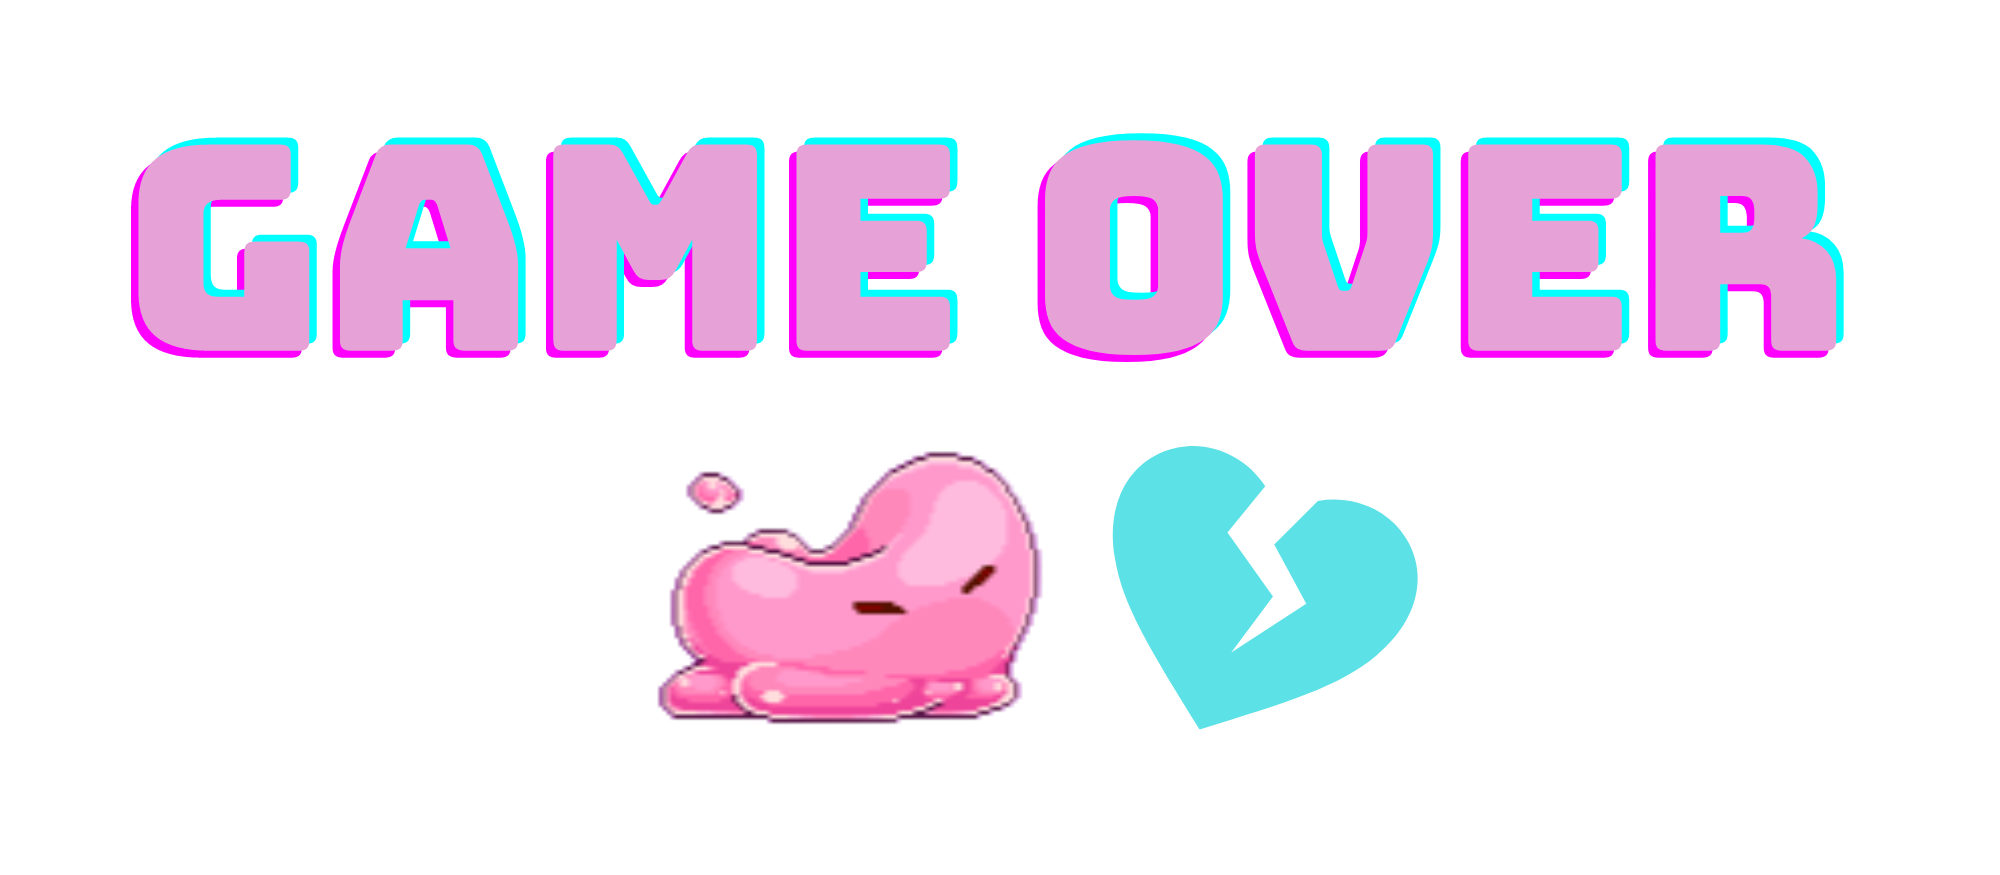
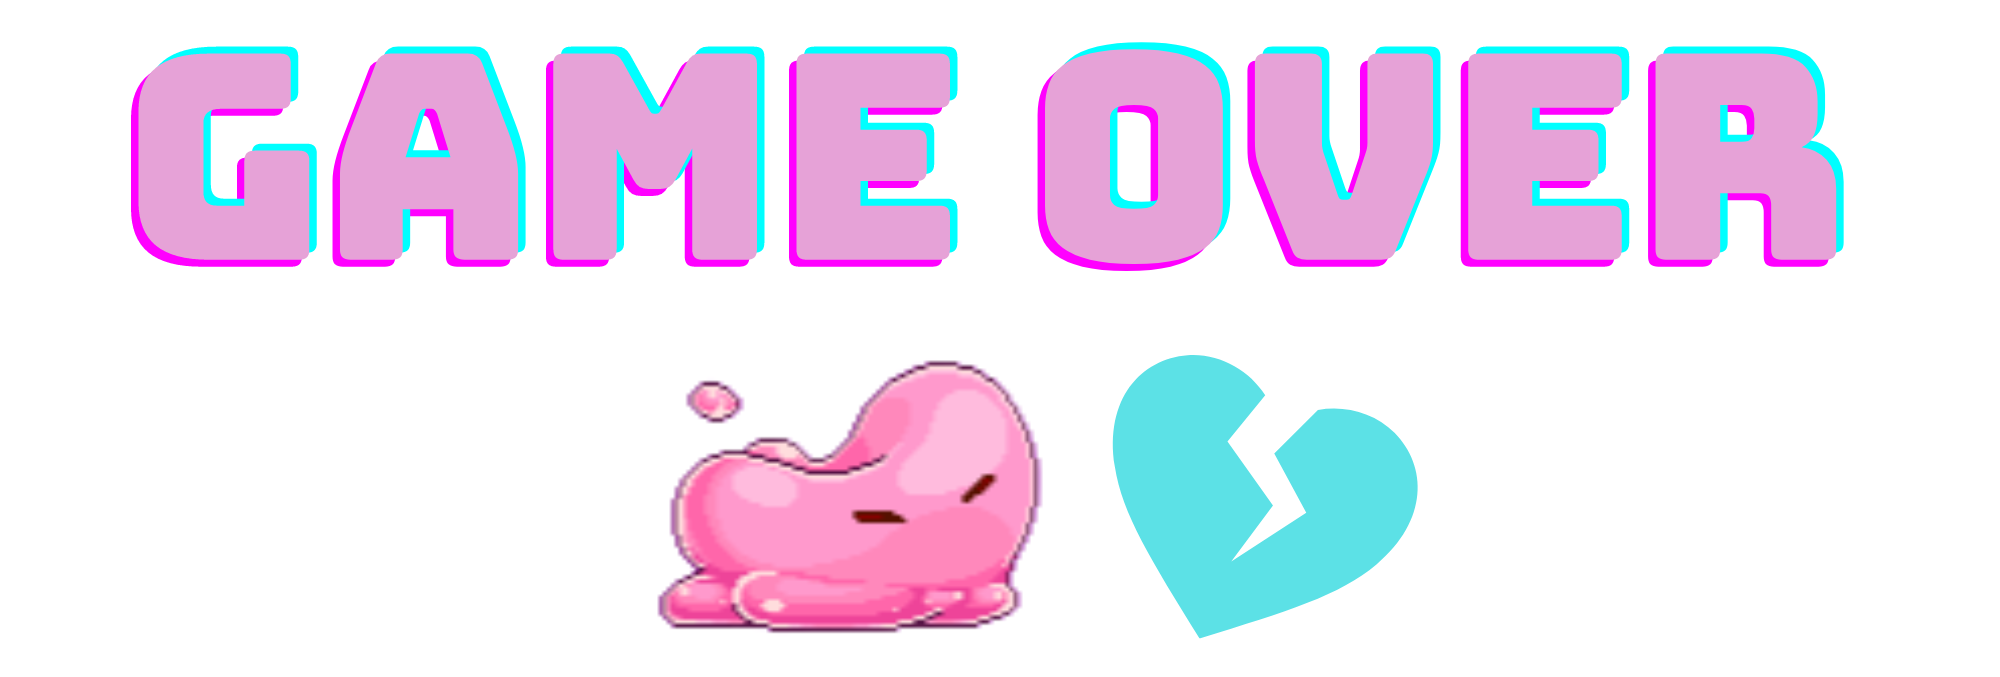
Tercer nivel implementado y muchos arreglos en css

diff --git a/Game.js b/Game.js
@@ -38,7 +38,7 @@ class Game {
     }
   }
     ctx.drawImage(this.background, this.backgroundX, 0, canvas.width, canvas.height);
-    ctx.drawImage(this.background2, this.backgroundX2, 0, canvas.width, canvas.height)
+    ctx.drawImage(this.background2, this.backgroundX2, 0, canvas.width, canvas.height);
   };
 
   gameOver = () => {
@@ -51,27 +51,49 @@ class Game {
     this.puntosArr.push(this.puntos)
   };
 
-  pinchosEnPantalla = (img) => {
+  pinchosEnPantalla = () => {
     if (
       this.pinchosArr.length === 0 ||
       this.pinchosArr[this.pinchosArr.length - 1].x < canvas.width
     ) {
       let posicionRandomPincho = Math.random() * 300 + canvas.width + 200;
+      let nuevoPincho = new Pincho(575, posicionRandomPincho, "imagenes/pincho.png");
+      this.pinchosArr.push(nuevoPincho);
+    }
+  };
+
+  pinchosEnPantallaNivel2 = (img) => {
+    if (
+      this.pinchosArr.length === 0 ||
+      this.pinchosArr[this.pinchosArr.length - 1].x < canvas.width / 1.5
+    ) {
+      let posicionRandomPincho = Math.random() * 300 + canvas.width + 350;
       let nuevoPincho = new Pincho(575, posicionRandomPincho, img);
       this.pinchosArr.push(nuevoPincho);
     }
   };
 
-  corazonesEnPantalla = (img) => {
+  corazonesEnPantalla = () => {
     if (
       this.corazonesArr.length === 0 ||
       this.corazonesArr[this.corazonesArr.length - 1].x < canvas.width
     ) {
       let posicionRandomCorazon = Math.random() * 300 + canvas.width + 400;
-      let nuevoCorazon = new Corazon(505, posicionRandomCorazon, img);
+      let nuevoCorazon = new Corazon(505, posicionRandomCorazon, "imagenes/corazon-primer-nivel.png");
       this.corazonesArr.push(nuevoCorazon);
     }
   };
+
+  corazonesEnPantallaNivel2 = (img) => {
+    if (
+      this.corazonesArr.length === 0 ||
+      this.corazonesArr[this.corazonesArr.length - 1].x < canvas.width
+    ) {
+      let posicionRandomCorazon = Math.random() * 300 + canvas.width + 600;
+      let nuevoCorazon = new Corazon(505, posicionRandomCorazon, img);
+      this.corazonesArr.push(nuevoCorazon);
+  }
+};
 
   rayitosEnPantalla = () => {
     if (
@@ -79,10 +101,21 @@ class Game {
       this.rayitosArr[this.rayitosArr.length - 1].y > canvas.height) 
       {
       let posicionRandomRayito = Math.random() * canvas.width;
-      let nuevoRayito = new Rayito(posicionRandomRayito);
+      let nuevoRayito = new Rayito(posicionRandomRayito, "imagenes/rayito.png");
       this.rayitosArr.push(nuevoRayito)
        }
-      }  
+  };
+  
+  rayitosEnPantallaNivel3 = () => {
+    if (
+      this.rayitosArr.length === 0 ||
+      this.rayitosArr[this.rayitosArr.length - 1].y > canvas.height / 2) 
+      {
+      let posicionRandomRayito = Math.random() * canvas.width;
+      let nuevoRayito = new Rayito(posicionRandomRayito, "imagenes/rayito3.png");
+      this.rayitosArr.push(nuevoRayito)
+       }
+  };
 
   colisionDantePincho = () => {
     this.pinchosArr.forEach((eachPincho) => {
@@ -143,9 +176,10 @@ class Game {
     if (this.nivel !== 1) {
       return;
     }
-    this.pinchosEnPantalla("imagenes/pincho.png");
-    this.corazonesEnPantalla("imagenes/corazon-primer-nivel.png");
-    this.terminaNivel1();
+    this.pinchosEnPantalla();
+    this.corazonesEnPantalla();
+
+    this.terminanNiveles();
     
   };
 
@@ -153,14 +187,28 @@ class Game {
     if (this.nivel !== 2) {
       return;
     }
-    this.pinchosEnPantalla("imagenes/pincho2.png");
+    this.pinchosEnPantallaNivel2("imagenes/pincho3.png");
     this.corazonesEnPantalla("imagenes/corazon-segundo-nivel.png")
     this.rayitosEnPantalla();
     this.colisionDanteRayito();
     this.rayitosArr.forEach((eachRayito) => {
-      eachRayito.rayitosCaen();
-    });
+      eachRayito.rayitosCaen()
+    })
 
+    this.terminanNiveles();
+  };
+
+  logicaNivel3 = () => {
+    if (this.nivel !== 3) {
+      return;
+    }
+    this.pinchosEnPantallaNivel2("imagenes/pincho3.png");
+    this.corazonesEnPantallaNivel2("imagenes/corazon-tercer-nivel.png");
+    this.rayitosEnPantallaNivel3();
+    this.colisionDanteRayito();
+    this.rayitosArr.forEach((eachRayito) => {
+      eachRayito.rayitosCaen2();
+    })
 
   };
 
@@ -170,12 +218,23 @@ class Game {
     this.background2 = new Image();
     this.background2.src = "imagenes/fondo-nivel-2-invertido.jpg";
     
-    this.nivel++;
+    this.nivel = 2;
   };
 
-  terminaNivel1 = () => {
+  empiezaNivel3 = () => {
+    this.background = new Image();
+    this.background.src = "imagenes/fondo-nivel-3.jpg";
+    this.background2 = new Image();
+    this.background2.src = "imagenes/fondo-nivel-3-invertido.jpg";
+    
+    this.nivel = 3;
+  };
+
+  terminanNiveles = () => {
     if (this.puntos === 5) {
       this.empiezaNivel2();
+    } else if (this.puntos === 10) {
+      this.empiezaNivel3();
     }
   };
 
@@ -192,6 +251,7 @@ class Game {
       //? Acciones y movimientos de los elementos
       this.logicaNivel1();
       this.logicaNivel2();
+      this.logicaNivel3();
       this.danteNoSeSale();
       this.colisionDantePincho();
       this.colisionDanteCorazon();

diff --git a/style.css b/style.css
@@ -9,23 +9,29 @@ body {
     background-color: rgb(255, 255, 255);
     border: 4px solid rgb(236, 135, 219);
     border-radius: 10%;
-    margin-bottom: 50px;
+    margin-bottom: 20px;
 }
 #pantalla-inicio {
     text-align: center;
+    background-image: url(imagenes/puntos.png);
 }
 
 #pantalla-inicio div img {
     width: 60%;
+    margin-top: 60px;
 }
 
 #pantalla-inicio div p {
-    text-align: justify;
-    margin: 1% 16.7% 2% 16.7%;
+    text-align: center;
+    margin: 3% 16.7% 2% 16.7%;
     padding-left: 4%;
     padding-right: 4%;
-    font-size: 21px;
-    color: rgb(43, 216, 216);
+    font-size: 20px;
+    color: rgb(75, 71, 71);
+    background-color: rgb(207, 232, 232);
+    border: 8px dotted rgb(225, 66, 217);
+    border-radius: 10px;
+    padding: 10px 8px 10px 8px;
 }
 
 #img-and-button {
@@ -35,8 +41,10 @@ body {
 
 #img-and-button img {
     height: 150px;
-    width: 20% !important;
-    padding-left: 22% ;
+    width: 19% !important;
+    padding-left: 25% ;
+    margin-top: 0px !important;
+    margin-right: 50px;
 }
 
 
@@ -45,7 +53,7 @@ body {
     height: 80px;
     width: 300px;
     align-self: center;
-    margin-bottom: 50px;
+    margin: 10px 0 10px 0;
     border-radius: 40px;
     border-color: rgb(225, 66, 217);
     font-family: "Comic Sans MS", cursive, sans-serif;
@@ -66,10 +74,13 @@ body {
     align-items: center;
     display: flex;
     flex-direction: column;
+    background-image: url(imagenes/puntos.png);
 }
 
 #gameOver img {
-    width: 70%;
+    width: 61%;
+    margin-top: 60px;
+    margin-bottom: 30px;
  }   
 
  #gameOver button {
@@ -82,6 +93,15 @@ body {
     background-image: linear-gradient(to right, rgb(243, 234, 243) 0%, rgb(235, 188, 243) 50%, rgb(220, 76, 198) 100%); box-shadow: rgb(156, 226, 240) 5px 5px 10px 5px;
     margin-top: 50px;
     margin-bottom: 60px
+}
+
+#gameOver p {
+    font-size: 20px;
+    border: 10px dotted rgb(225, 66, 217);
+    background-color: rgb(189, 231, 231);
+    border-radius: 5px;
+    color:rgb(75, 71, 71);
+    padding: 20px 50px 20px 50px;
 }
 #gameOver button:hover {
     color: purple;

diff --git a/Rayito.js b/Rayito.js
@@ -1,7 +1,7 @@
 class Rayito {
-    constructor(posicX) {
+    constructor(posicX, img) {
         this.img = new Image();
-        this.img.src ="imagenes/rayito.png";
+        this.img.src = img;
 
         this.x = posicX;
         this.y = 0;
@@ -9,7 +9,7 @@ class Rayito {
         this.w = 18;
         this.h = 20;
 
-        this.velocidad = 1.9;
+        this.velocidad = 3;
     }
 
     draw = () => {
@@ -18,5 +18,11 @@ class Rayito {
 
     rayitosCaen = () => {
         this.y += this.velocidad;
-    };  
+    };
+
+    rayitosCaen2 = () => {
+        this.y += this.velocidad * 1.7;
+    }
+    
+    
 }

diff --git a/Pincho.js b/Pincho.js
@@ -18,5 +18,5 @@ class Pincho {
 
     pinchosSeMueven = () => {
         this.x -= this.velocidad;
-    };  
-}
+    };
+ }
